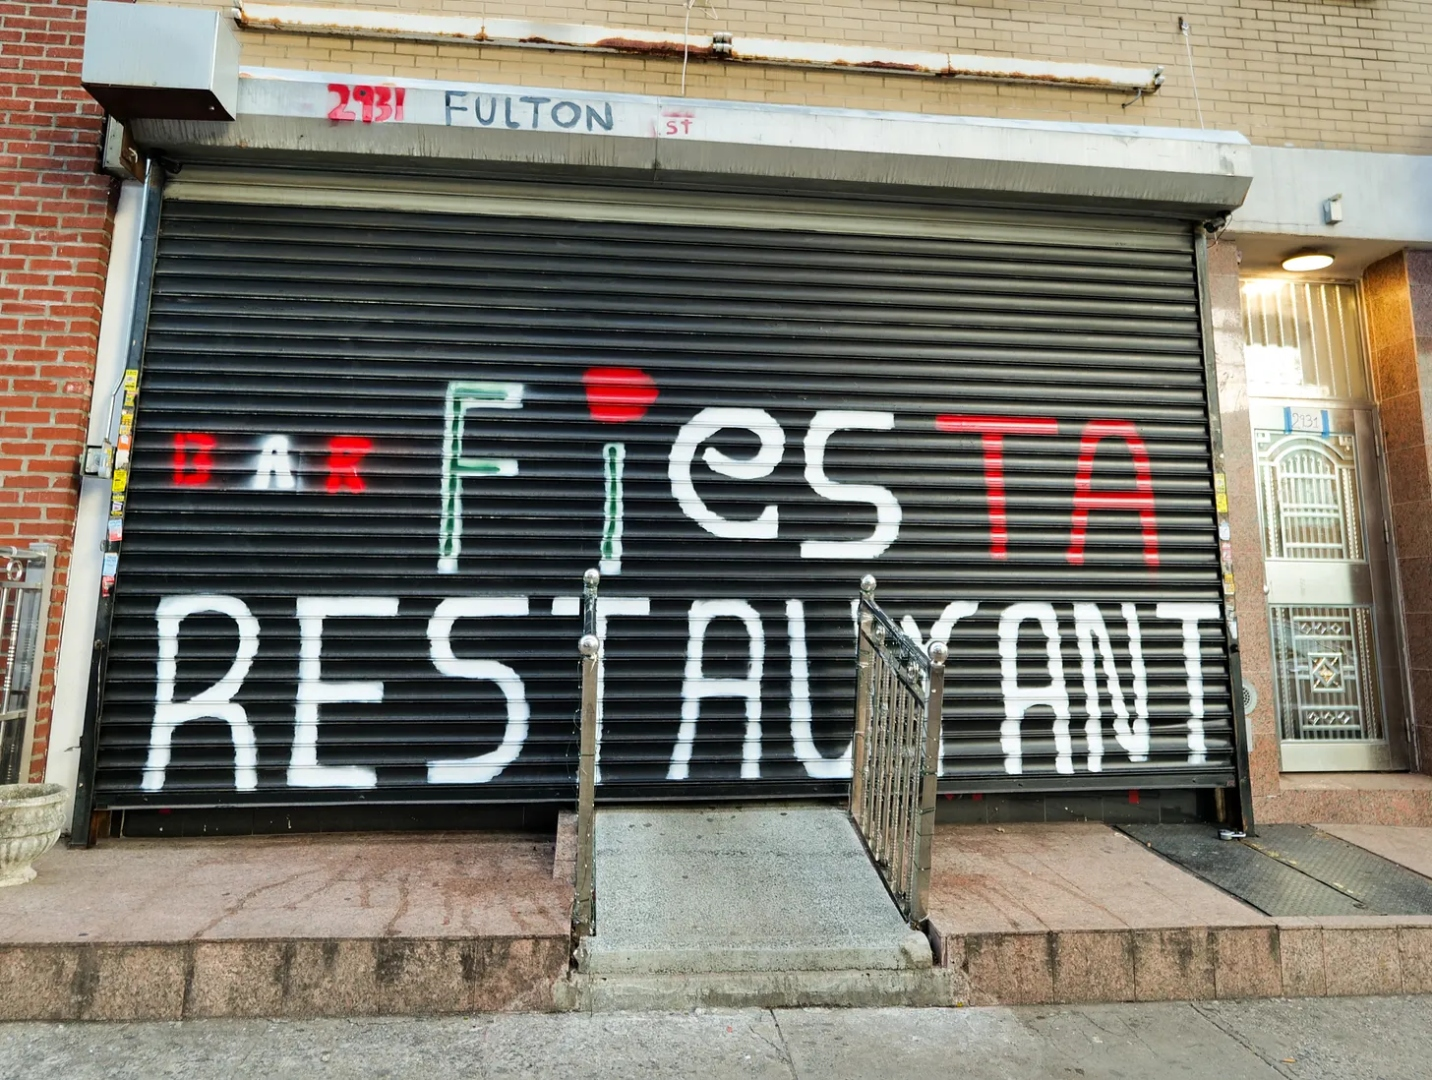
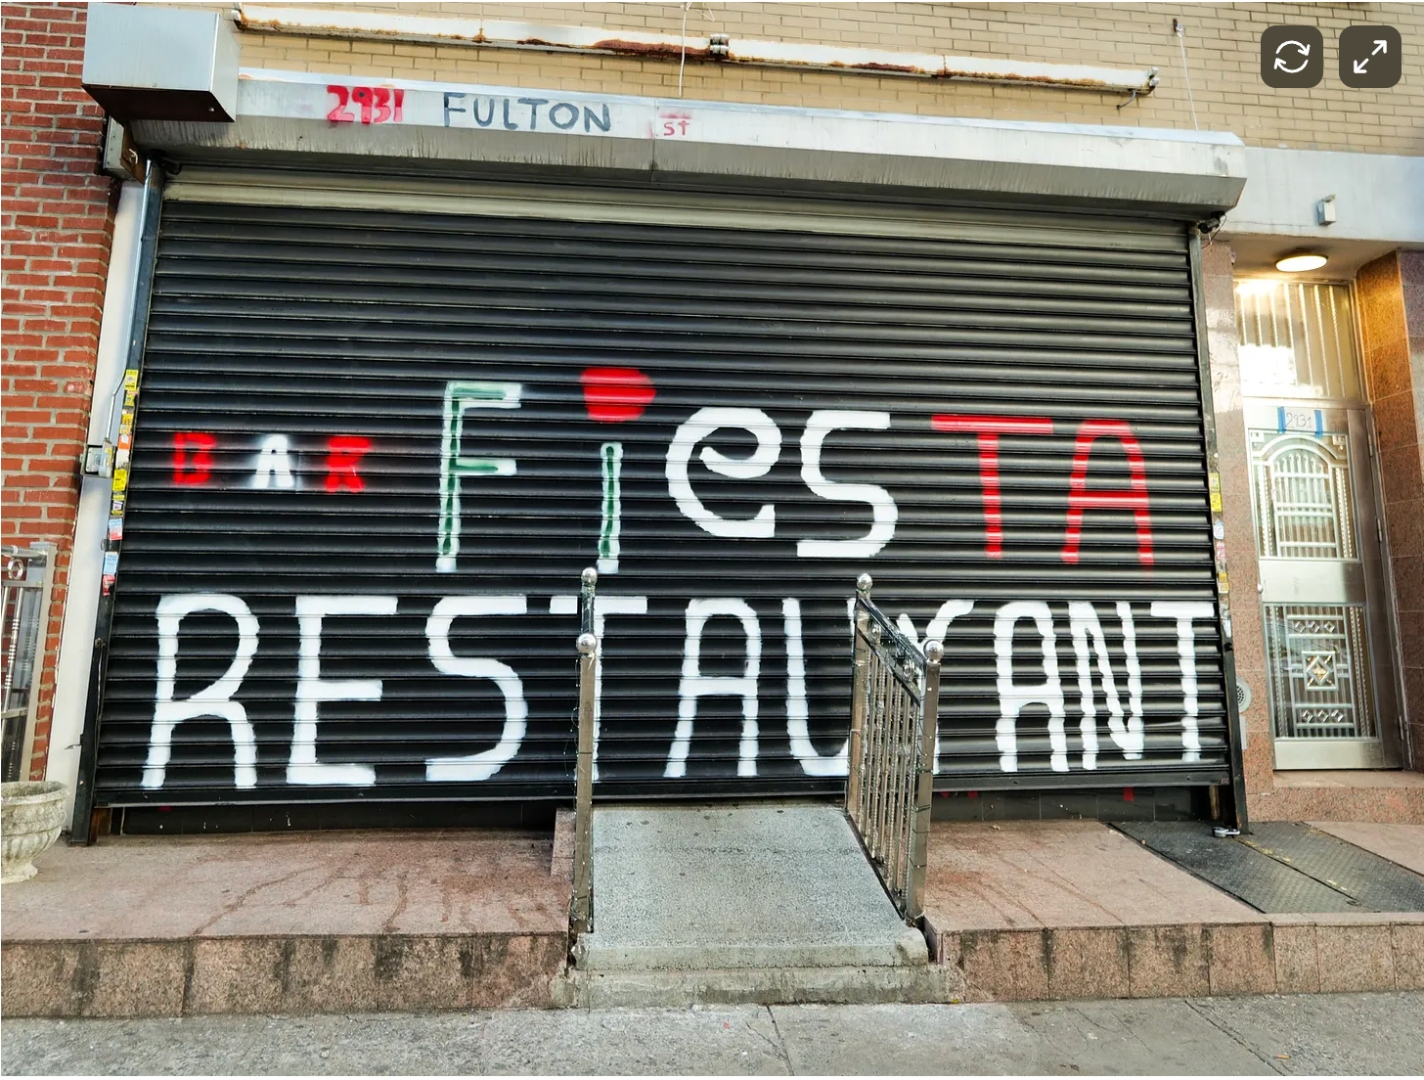
Add files via upload

diff --git a/index.html b/index.html
@@ -880,7 +880,7 @@
           <div class="story-meta"><span><strong>Deric Johnson</strong></span><span>May 30, 2026</span><span>3 min read</span></div>
         </div>
         <div class="article-card">
-          <div class="article-card-img" style="background:var(--surface-3);border-radius:var(--radius);"></div>
+          <div class="article-card-img" style="overflow:hidden;"><img src="sandynurse-story.jpg" alt="Sandy Nurse town hall" style="width:100%;height:100%;object-fit:cover;object-position:center top;" /></div>
           <span class="tag tag--blue">Civic</span>
           <h2><a href="https://urbanversionmedia.substack.com/p/super-broken-residents-confront-city" target="_blank" rel="noopener">"Super Broken": Residents Confront City Agencies at Sandy Nurse's Town Hall</a></h2>
           <p>Attendees raised concerns about dumping, traffic safety, delayed street repairs and a complaint system many said is failing their neighborhoods.</p>
@@ -905,7 +905,7 @@
           <div class="story-meta"><span><strong>Deric Johnson</strong></span><span>Mar 12, 2026</span><span>5 min read</span></div>
         </div>
         <div class="article-card">
-          <div class="article-card-img" style="background:var(--surface-3);border-radius:var(--radius);"></div>
+          <div class="article-card-img" style="overflow:hidden;"><img src="restaurant-story.jpg" alt="Bar Fiesta Restaurant, Fulton Street ENY" style="width:100%;height:100%;object-fit:cover;" /></div>
           <span class="tag tag--red">Public Safety</span>
           <h2><a href="https://urbanversionmedia.substack.com/p/cb5-grapples-with-limits-of-its-power" target="_blank" rel="noopener">CB5 Grapples With Limits of Its Power in Split Restaurant License Debate</a></h2>
           <p>Residents' complaints, a business owner's distress, and the limits of community board authority collided at a tense Public Safety Committee meeting.</p>